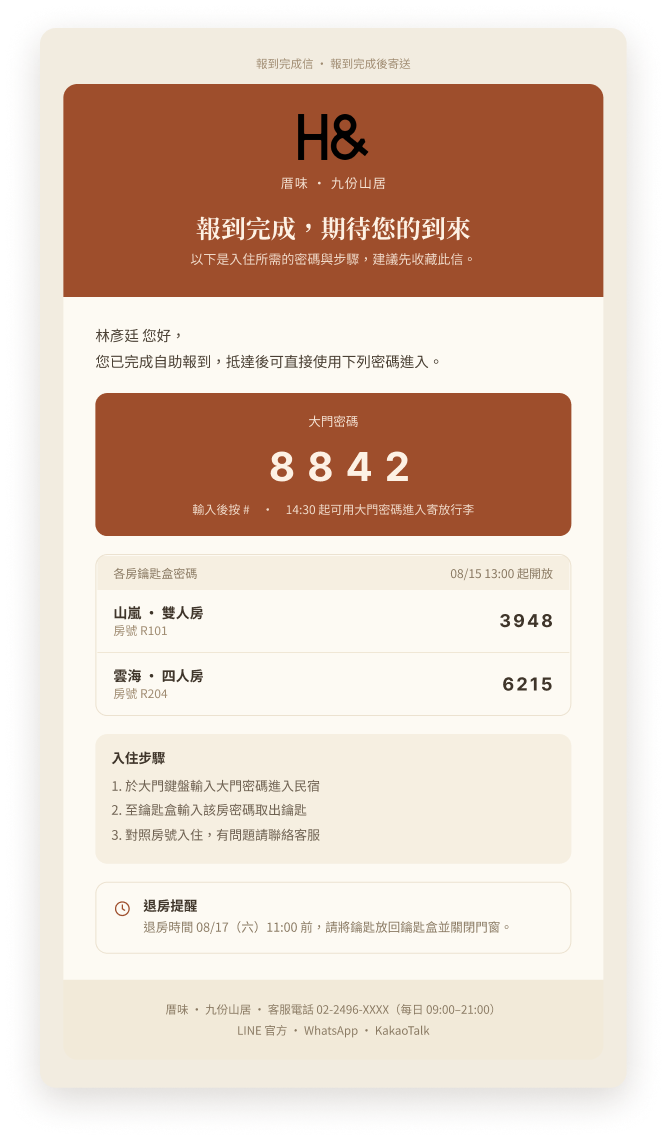
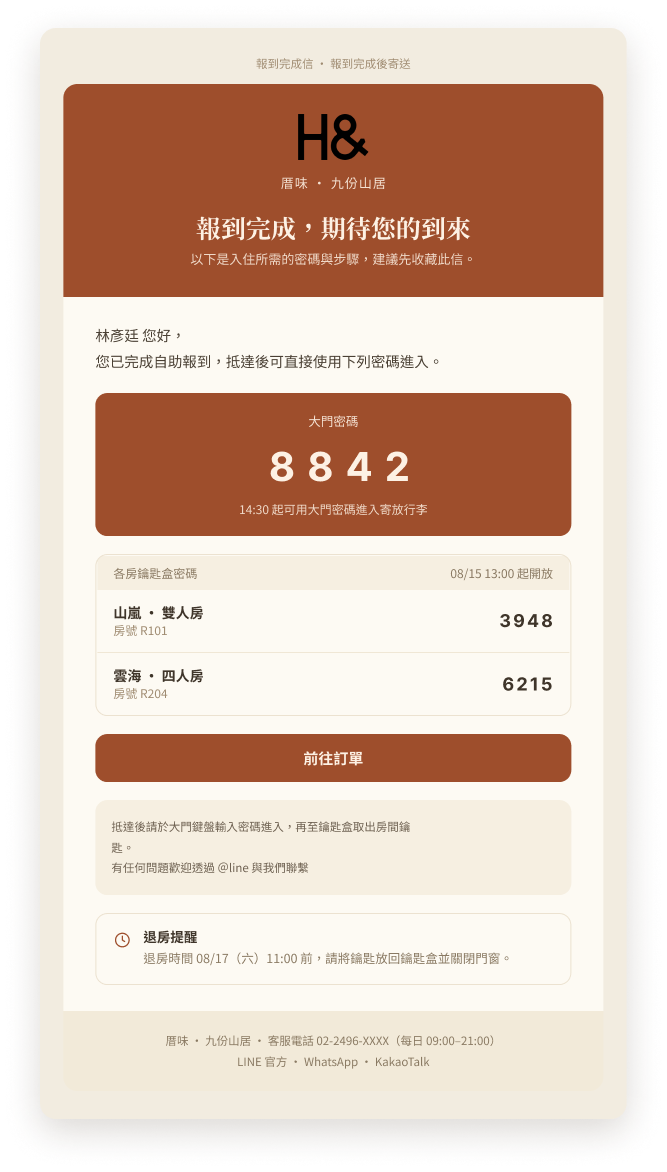
Email 通知設定改版三欄式（a13/a24/a25）＋ a23 報到完成信更新
- Email 通知分頁改為三欄：信件清單／編輯區／即時預覽，
  變數改為點擊插入至游標位置，另立「Email 通知設定」分節
  （1514/1527 比例框），三種信件各一張
- a13 入住通知信：新增「自動寄送時間」入住前 N 天設定
- a24 證件補件提醒（新增）、a25 報到完成信（新增）
- a23 報到完成信範本：移除「輸入後按 #」，入住步驟清單改為補充說明，
  新增「前往訂單」按鈕（1140 → 1172px，信件範本比例框同步調整）
- 後台分頁計數 23 → 25

diff --git a/index.html b/index.html
@@ -217,7 +217,7 @@
   <nav class="tabs">
     <div class="tabs-inner" role="tablist" aria-label="介面分類">
       <button class="tab" role="tab" aria-selected="true"  data-group="front">前台</button>
-      <button class="tab" role="tab" aria-selected="false" data-group="admin">後台<span class="count">23</span></button>
+      <button class="tab" role="tab" aria-selected="false" data-group="admin">後台<span class="count">25</span></button>
       <a class="pill pill-cta" id="flowlink" href="flow.html">報到流程總覽 →</a>
       <!-- 暫時隱藏：設計系統入口（要恢復時取消此註解即可）
       <a class="pill pill-cta" href="design-system/styleguide.html">設計系統 →</a>
@@ -297,7 +297,7 @@
       { name: "住客清單匯出", ar: "1514 / 862", items: [
         ["a05", "住客清單匯出"],
       ]},
-      // 民宿資訊（a06，1491px）為長頁例外，比例框取次高圖，避免其餘 8 張留白過多
+      // 民宿資訊（a06，1491px）為長頁例外，比例框取次高圖，避免其餘 7 張留白過多
       { group: "設定", name: "館別設定", ar: "1514 / 927", items: [
         ["a06", "民宿資訊"],
         ["a07", "房間與鑰匙盒"],
@@ -306,11 +306,16 @@
         ["a10", "入住步驟與退房"],
         ["a11", "住宿須知"],
         ["a12", "訂房與客服"],
-        ["a13", "Email 通知"],
         ["a19", "外部連結"],
       ]},
+      // Email 通知為 1527px 三欄長頁，與館別設定其餘分頁比例差異大，另立一節
+      { name: "Email 通知設定", ar: "1514 / 1527", items: [
+        ["a13", "入住通知信"],
+        ["a24", "證件補件提醒"],
+        ["a25", "報到完成信"],
+      ]},
       // 信件範本為 667px 直式版型，與後台截圖比例差異大，另立一節設比例框
-      { name: "Email 信件範本", ar: "667 / 1140", items: [
+      { name: "Email 信件範本", ar: "667 / 1172", items: [
         ["a21", "入住通知信"],
         ["a22", "證件補件提醒"],
         ["a23", "報到完成信"],
